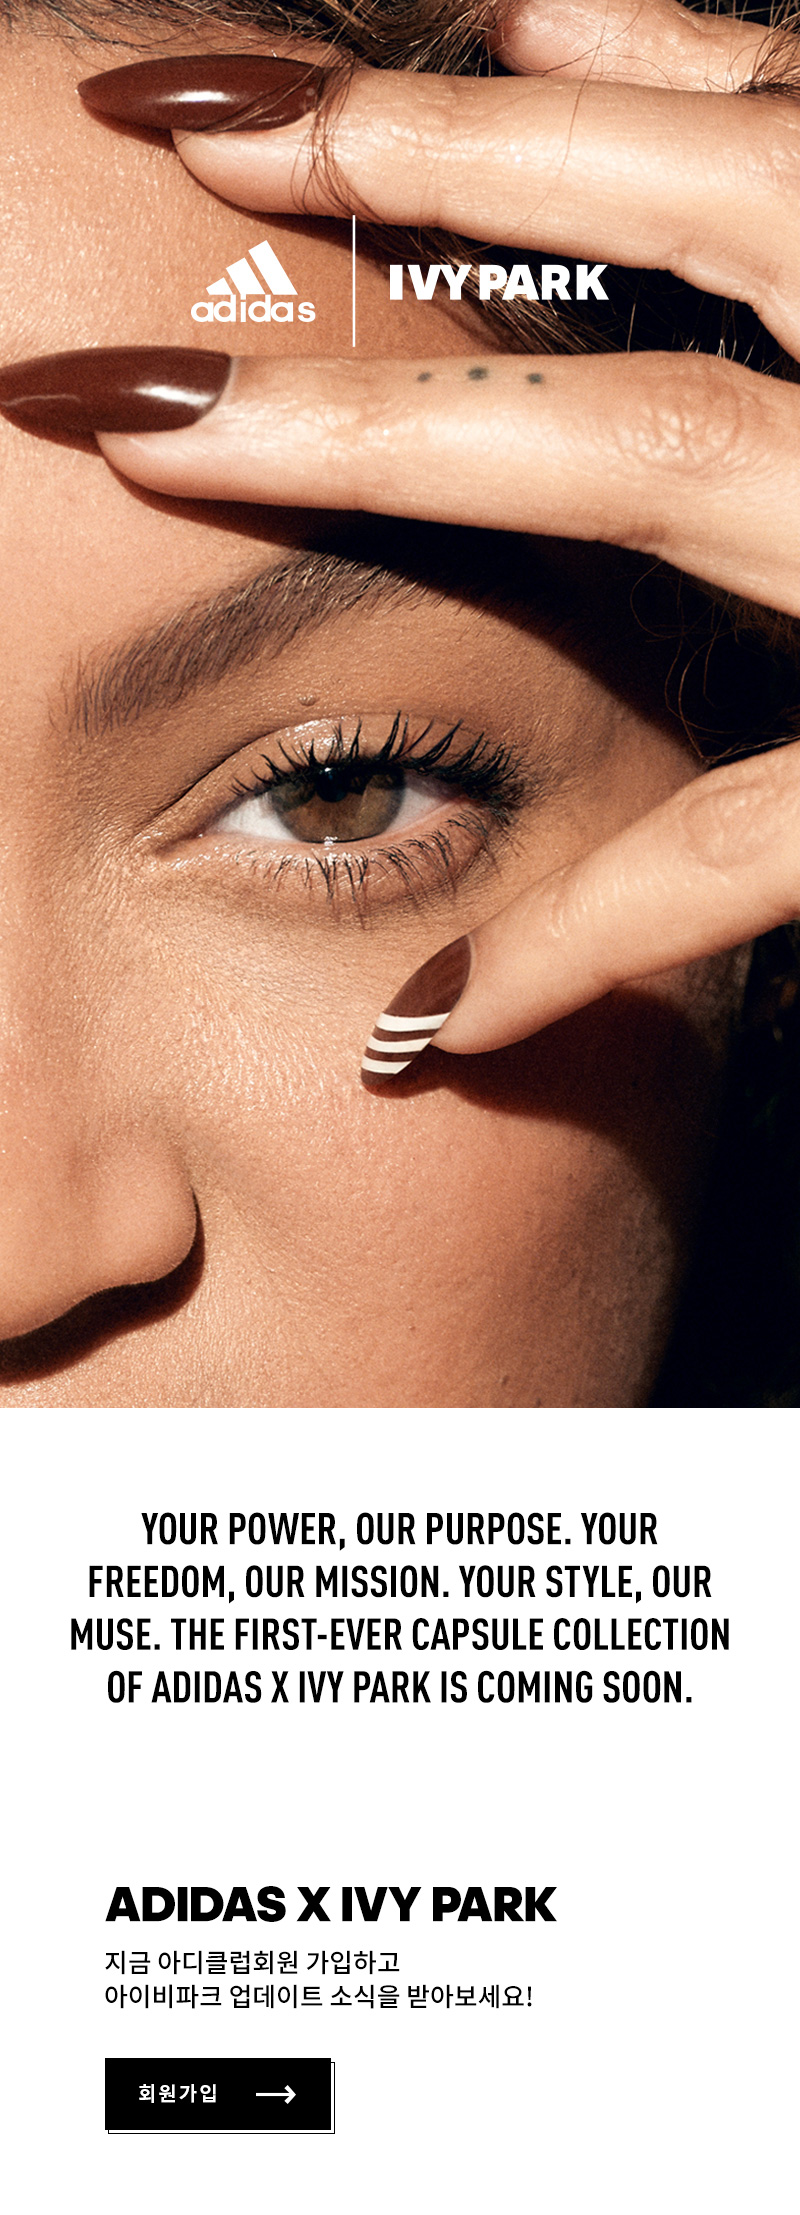
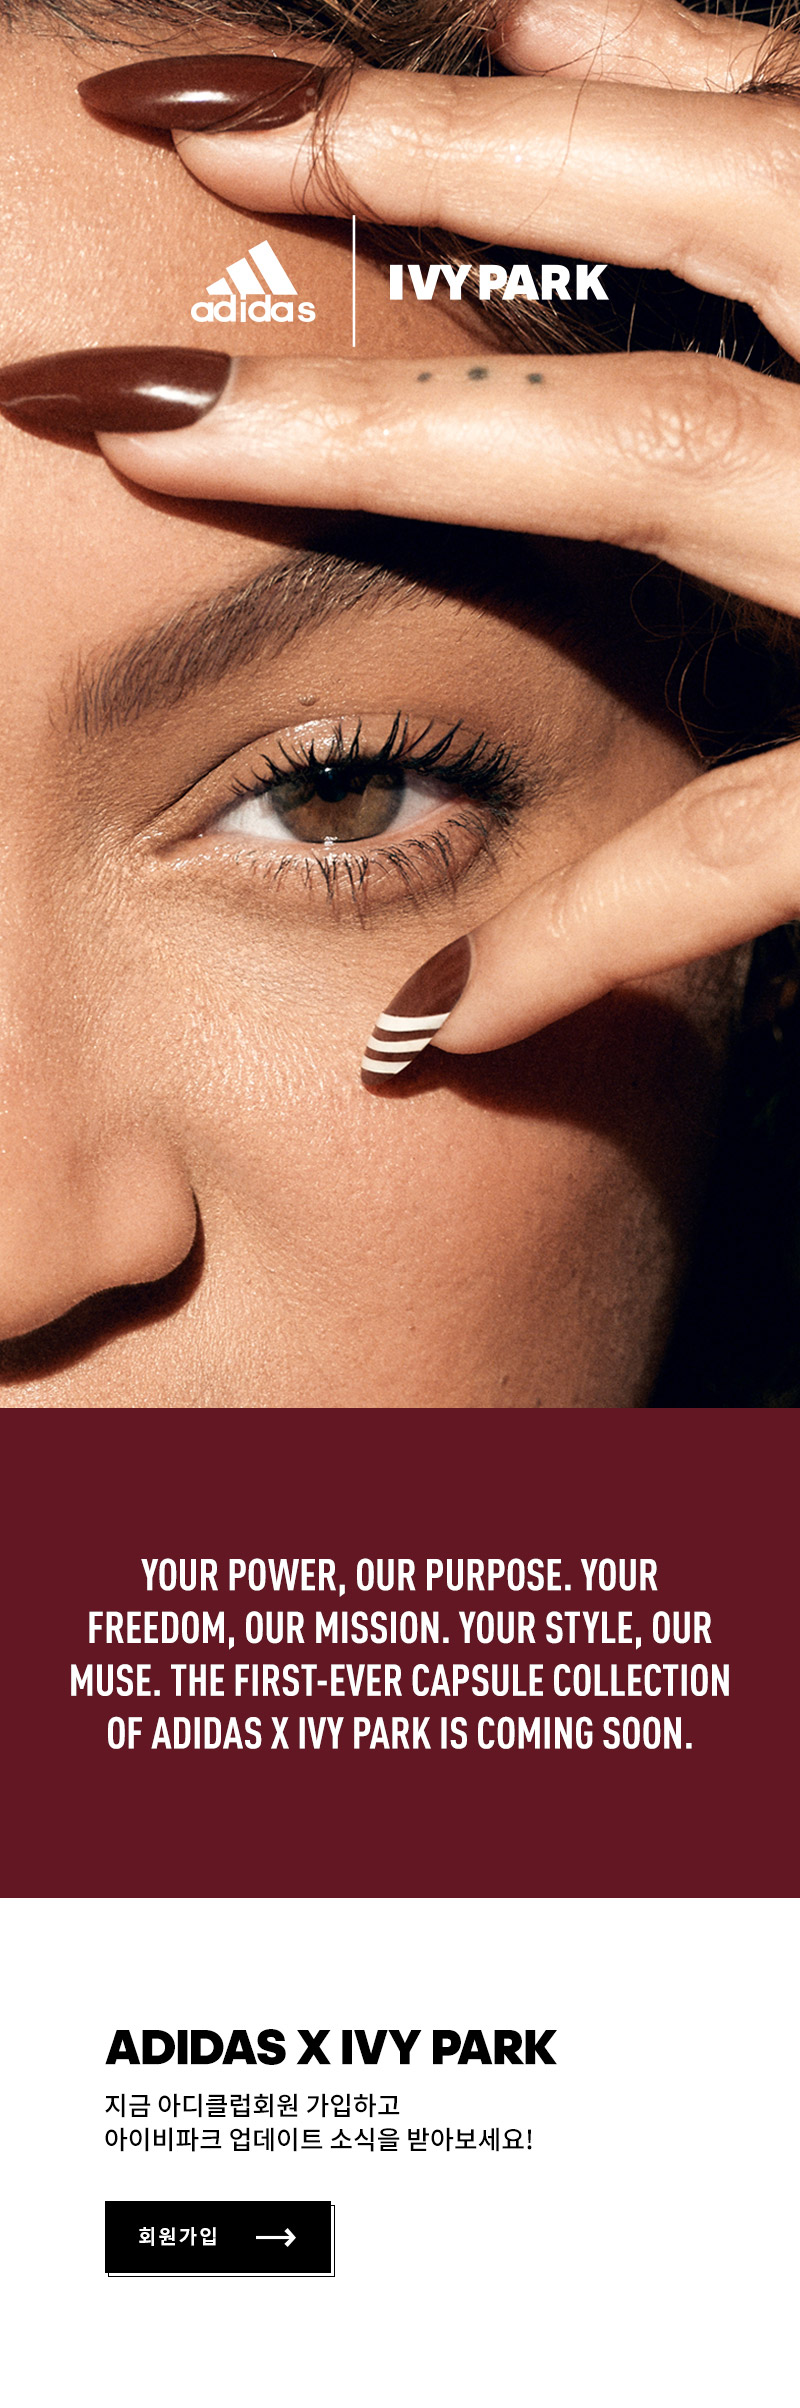
adi_cp_아이비파크 파이널

diff --git a/mobile/html/adidas/2020/event/ivypark/build/index.html b/mobile/html/adidas/2020/event/ivypark/build/index.html
@@ -438,7 +438,7 @@
 		</div>
 
 		<div id="container">
-<style type="text/css">@media screen and (max-width: 320px){html{font-size:10px}}@media screen and (min-width: 800px){html{font-size:12px}}.pseudo-element{content:'';display:block}#ivypark{position:relative}#ivypark .button_area_v2{width:130px}#ivypark .button_area_v2 a{font-size:1rem;font-weight:normal;height:36px;line-height:34px;letter-spacing:1px}#ivypark .button_area_v2 a span.arrow{margin-left:10px;width:25px}#ivypark .button_area_v2 a span.arrow:after{width:8px}#ivypark .button_area_v2 a span.arrow:before{width:8px}#ivypark .main_visual{position:relative}#ivypark .main_visual>img{display:block;width:100%}#ivypark .main_visual .btn_join{display:inline-block;width:31%;height:4%;position:absolute;top:92.5%;left:12%;text-indent:-9999px}
+<style type="text/css">@media screen and (max-width: 320px){html{font-size:10px}}@media screen and (min-width: 800px){html{font-size:12px}}.pseudo-element{content:'';display:block}#ivypark{position:relative}#ivypark .button_area_v2{width:130px}#ivypark .button_area_v2 a{font-size:1rem;font-weight:normal;height:36px;line-height:34px;letter-spacing:1px}#ivypark .button_area_v2 a span.arrow{margin-left:10px;width:25px}#ivypark .button_area_v2 a span.arrow:after{width:8px}#ivypark .button_area_v2 a span.arrow:before{width:8px}#ivypark .main_visual{position:relative}#ivypark .main_visual>img{display:block;width:100%}#ivypark .main_visual .btn_join{display:inline-block;width:31%;height:4%;position:absolute;top:91%;left:12%;text-indent:-9999px}
 </style>
 
 			<div id="ivypark">

diff --git a/mobile/html/adidas/pn/ivypark.html b/mobile/html/adidas/pn/ivypark.html
@@ -1,5 +1,5 @@
 <div id="container">
-<style type="text/css">@media screen and (max-width: 320px){html{font-size:10px}}@media screen and (min-width: 800px){html{font-size:12px}}.pseudo-element{content:'';display:block}#ivypark{position:relative}#ivypark .button_area_v2{width:130px}#ivypark .button_area_v2 a{font-size:1rem;font-weight:normal;height:36px;line-height:34px;letter-spacing:1px}#ivypark .button_area_v2 a span.arrow{margin-left:10px;width:25px}#ivypark .button_area_v2 a span.arrow:after{width:8px}#ivypark .button_area_v2 a span.arrow:before{width:8px}#ivypark .main_visual{position:relative}#ivypark .main_visual>img{display:block;width:100%}#ivypark .main_visual .btn_join{display:inline-block;width:31%;height:4%;position:absolute;top:92.5%;left:12%;text-indent:-9999px}
+<style type="text/css">@media screen and (max-width: 320px){html{font-size:10px}}@media screen and (min-width: 800px){html{font-size:12px}}.pseudo-element{content:'';display:block}#ivypark{position:relative}#ivypark .button_area_v2{width:130px}#ivypark .button_area_v2 a{font-size:1rem;font-weight:normal;height:36px;line-height:34px;letter-spacing:1px}#ivypark .button_area_v2 a span.arrow{margin-left:10px;width:25px}#ivypark .button_area_v2 a span.arrow:after{width:8px}#ivypark .button_area_v2 a span.arrow:before{width:8px}#ivypark .main_visual{position:relative}#ivypark .main_visual>img{display:block;width:100%}#ivypark .main_visual .btn_join{display:inline-block;width:31%;height:4%;position:absolute;top:91%;left:12%;text-indent:-9999px}
 </style>
 
 			<div id="ivypark">

diff --git a/mobile/html/adidas/2020/event/ivypark/index.scss b/mobile/html/adidas/2020/event/ivypark/index.scss
@@ -35,7 +35,7 @@
 			width: 31%;
 			height: 4%;
 			position: absolute;
-			top: 92.5%;
+			top: 91%;
 			left: 12%;
 			// background: rgba(255,255,0,0.4);
 			text-indent: -9999px;
